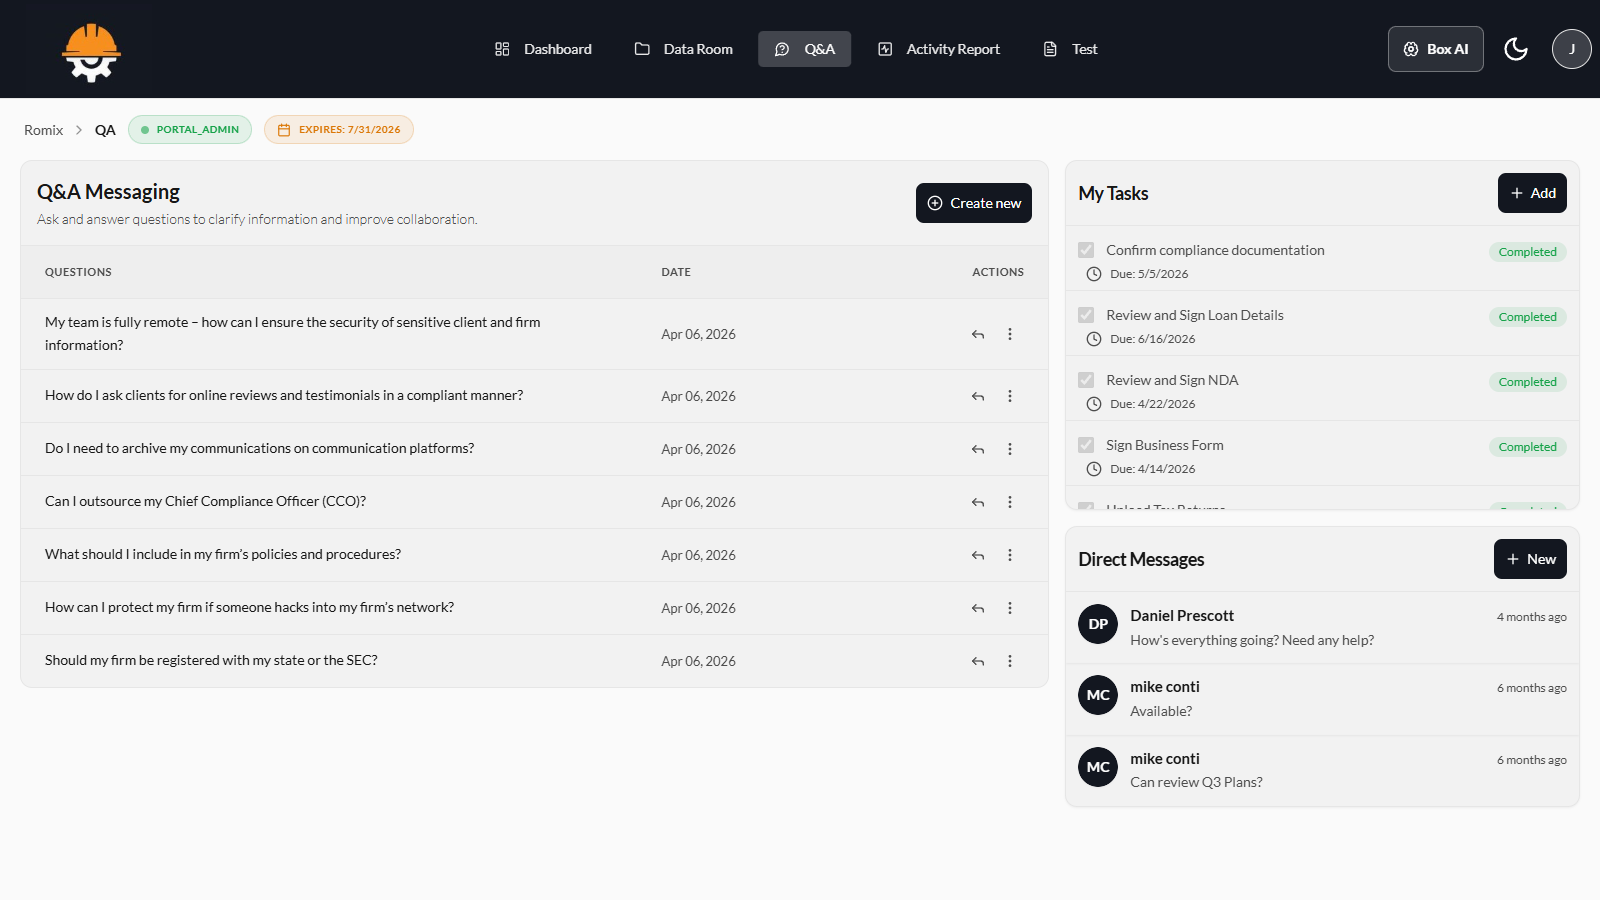
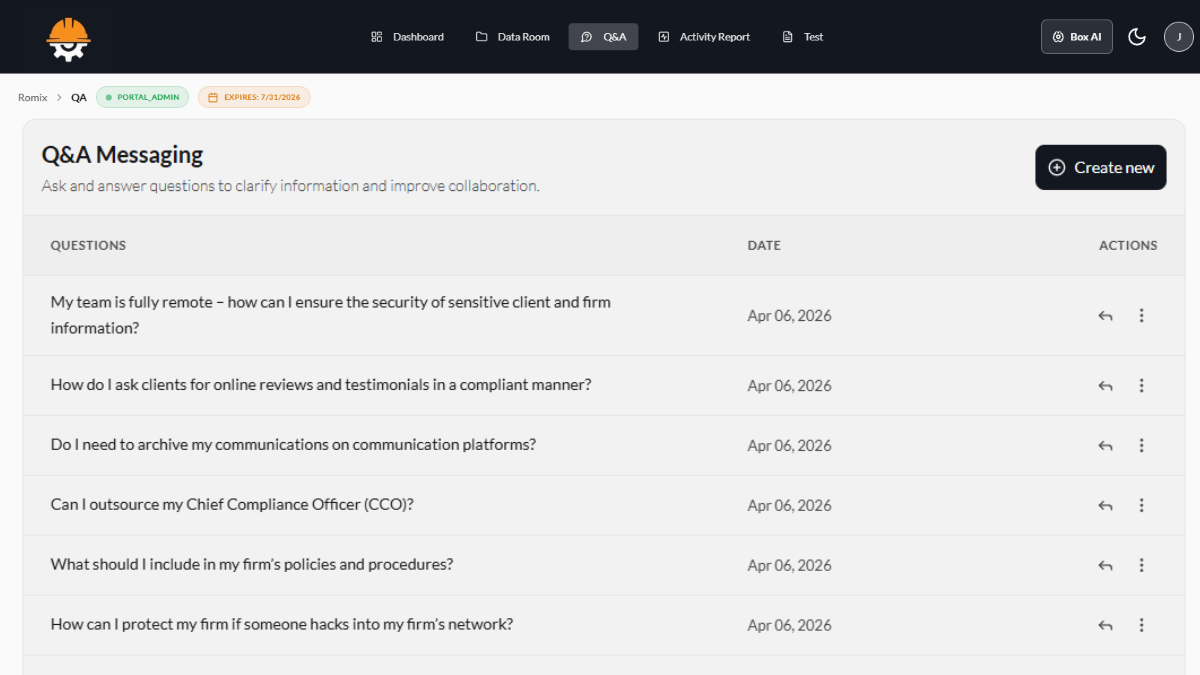
Update deal-room and abac graphics, add Box testimonial section and DAM + value callout row on index.html

diff --git a/index.html b/index.html
@@ -331,15 +331,20 @@
     </div>
   </section>
 
-  <!-- Value Proposition Callout Banner -->
+  <!-- Testimonial Callout Banner -->
   <section class="py-16 bg-gradient-to-r from-boxDarkNavy via-boxNavy to-boxDarkNavy text-white border-b border-slate-800">
     <div class="max-w-4xl mx-auto px-4 sm:px-6 lg:px-8 text-center space-y-6">
-      <p class="text-xl sm:text-2xl font-bold text-white leading-snug">
-        MStrategy helps organizations unlock the full potential of Box by connecting people, content, and business processes across their entire ecosystem.
-      </p>
-      <p class="text-sm sm:text-base text-slate-300 leading-relaxed">
-        MStrategy builds on customers' existing Box investments, transforming content into secure, connected business experiences that improve productivity, accelerate business processes and deliver measurable business value.
-      </p>
+      <div class="inline-flex items-center justify-center w-12 h-12 rounded-2xl bg-mOrange/10 border border-mOrange/30 text-mOrange mx-auto">
+        <svg class="w-6 h-6 fill-current" viewBox="0 0 24 24"><path d="M14.017 21v-7.391c0-5.704 3.731-9.57 8.983-10.609l.995 2.151c-2.432.917-3.995 3.638-3.995 5.849h4v10h-9.983zm-14.017 0v-7.391c0-5.704 3.748-9.57 9-10.609l.996 2.151c-2.433.917-3.996 3.638-3.996 5.849h3.983v10h-9.983z"/></svg>
+      </div>
+      <blockquote class="text-lg sm:text-xl md:text-2xl font-medium text-white leading-relaxed italic">
+        “Enterprises need a secure, connected platform that helps them put their content to work across customers, partners and employees, with the governance and workflows their businesses require,” said Jamie Young Perlman, Vice President, Global GTM Partnerships at Box. “MStrategy’s recognition as Box Breakthrough Partner of the Year reflects its innovation in collaborating with Box to help organizations accelerate business processes securely.”
+      </blockquote>
+      <div class="pt-1 flex flex-wrap items-center justify-center gap-2 text-xs sm:text-sm font-semibold uppercase tracking-wider text-mOrange">
+        <span>Jamie Young Perlman</span>
+        <span class="text-slate-500">&bull;</span>
+        <span class="text-slate-300">Vice President, Global GTM Partnerships at Box</span>
+      </div>
     </div>
   </section>
 
@@ -926,6 +931,25 @@
           <div class="text-xs font-bold text-slate-400 uppercase tracking-wider mb-2">Common Customer Use Cases</div>
           <p class="text-slate-700 text-sm leading-relaxed">
             Agency collaboration, document tracking, secure external access, workflows
+          </p>
+        </div>
+
+        <!-- Industry 7: Digital Asset Management -->
+        <div class="bg-white p-8 rounded-2xl border border-slate-200 shadow-sm hover:border-mOrange hover:shadow-xl transition group">
+          <div class="w-12 h-12 rounded-xl bg-orange-50 text-mOrange flex items-center justify-center font-bold mb-6 group-hover:bg-mOrange group-hover:text-white transition">
+            <svg class="w-6 h-6" fill="none" stroke="currentColor" viewBox="0 0 24 24"><path stroke-linecap="round" stroke-linejoin="round" stroke-width="2" d="M4 16l4.586-4.586a2 2 0 012.828 0L16 16m-2-2l1.586-1.586a2 2 0 012.828 0L20 14m-6-6h.01M6 20h12a2 2 0 002-2V6a2 2 0 00-2-2H6a2 2 0 00-2 2v12a2 2 0 002 2z"/></svg>
+          </div>
+          <h3 class="text-xl font-bold text-slate-900 mb-3 group-hover:text-mOrange transition">Digital Asset Management</h3>
+          <div class="text-xs font-bold text-slate-400 uppercase tracking-wider mb-2">Common Customer Use Cases</div>
+          <p class="text-slate-700 text-sm leading-relaxed">
+            Asset organization, brand management, creative collaboration, version control, secure sharing
+          </p>
+        </div>
+
+        <!-- Value Callout Box (Spans 2 Columns) -->
+        <div class="md:col-span-2 lg:col-span-2 bg-boxNavy text-white p-8 sm:p-10 rounded-2xl border border-slate-800 shadow-lg flex items-center">
+          <p class="text-lg sm:text-xl font-semibold text-white leading-relaxed">
+            MStrategy builds on customers' existing Box investments, transforming content into secure, connected business experiences that improve productivity, accelerate business processes and deliver measurable business value.
           </p>
         </div>
 

diff --git a/deal-room.html b/deal-room.html
@@ -306,7 +306,7 @@
           <h3 class="text-xl font-bold">Direct Inquiry Routing Without Leaks</h3>
           <p class="text-slate-300 text-sm">Organize buyer due diligence questions with assigned coordinators and private responses.</p>
           <div class="browser-frame-dark rounded-xl overflow-hidden border border-slate-700">
-            <img src="assets/images/A162.png" alt="VDR Q&A Workflow" class="w-full h-auto">
+            <img src="assets/images/A162.png?v=2" alt="VDR Q&A Workflow" class="w-full h-auto">
           </div>
         </div>
 
@@ -315,7 +315,7 @@
           <h3 class="text-xl font-bold">Comprehensive Activity Logs</h3>
           <p class="text-slate-300 text-sm">Download complete tamper-proof transaction logs for SEC compliance and deal closing records.</p>
           <div class="browser-frame-dark rounded-xl overflow-hidden border border-slate-700">
-            <img src="assets/images/A171.png" alt="VDR Activity Reporting" class="w-full h-auto">
+            <img src="assets/images/A171.png?v=2" alt="VDR Activity Reporting" class="w-full h-auto">
           </div>
         </div>
       </div>

diff --git a/abac.html b/abac.html
@@ -324,7 +324,7 @@
           <h3 class="text-xl font-bold">Contextual Activity & Audit Logs</h3>
           <p class="text-slate-300 text-sm">Track policy evaluations, device compliance checks, and access attempts in real time.</p>
           <div class="browser-frame-dark rounded-xl overflow-hidden border border-slate-700">
-            <img src="assets/images/DRM AdminActivityReport.PNG" alt="ABAC Activity Report" class="w-full h-auto">
+            <img src="assets/images/DRM AdminActivityReport.png" alt="ABAC Activity Report" class="w-full h-auto">
           </div>
         </div>
       </div>
